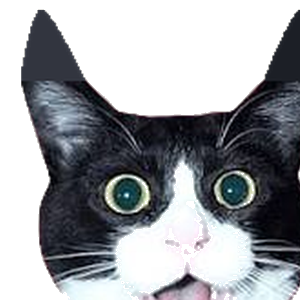
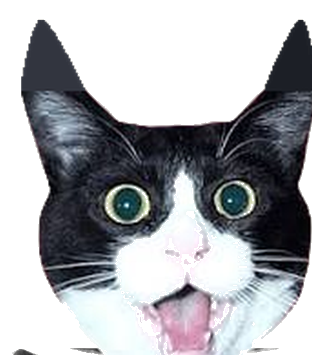
fix: re-crop cat/dog onboarding heads, add man illustration to set-password
Both crops were cutting real content, not a source-art issue: the right
ear on the cat crop was clipped by the crop's right edge (ear extends to
x=518, crop stopped at x=500), and the dog's crop bottom edge was too
high to include the full chin/mouth. Widened both boundaries.

Also cropped a third head (bearded man, from screen_3man.png) using the
same box and added it to the "Set your password" screen, matching the
cat/dog treatment on Verify/Check-your-email.

diff --git a/src/pages/Auth.tsx b/src/pages/Auth.tsx
@@ -12,6 +12,7 @@ import { toast } from "@/lib/app-toast";
 import logoShake from "@/assets/shake-logo-new.png";
 import catHead from "@/assets/onboarding/cat-head.png";
 import dogHead from "@/assets/onboarding/dog-head.png";
+import manHead from "@/assets/onboarding/man-head.png";
 import { User, Lock, Eye, EyeOff, Mail, ArrowUp } from "lucide-react";
 import { cn } from "@/lib/utils";
 import { LanguageSelector } from "@/components/LanguageSelector";
@@ -1732,6 +1733,7 @@ export default function Auth() {
           {step === "setPassword" && (
             <form onSubmit={handleCompleteSignupPassword} className="space-y-4">
               <div className="space-y-2 text-center">
+                <img src={manHead} alt="" className="w-16 h-16 mx-auto object-contain" />
                 <h2 className="text-xl font-bold text-black">Set your password</h2>
                 <p className="text-sm text-white/80">
                   Choose a password for <span className="font-medium">{user?.email ?? email}</span>. You&apos;ll use it
